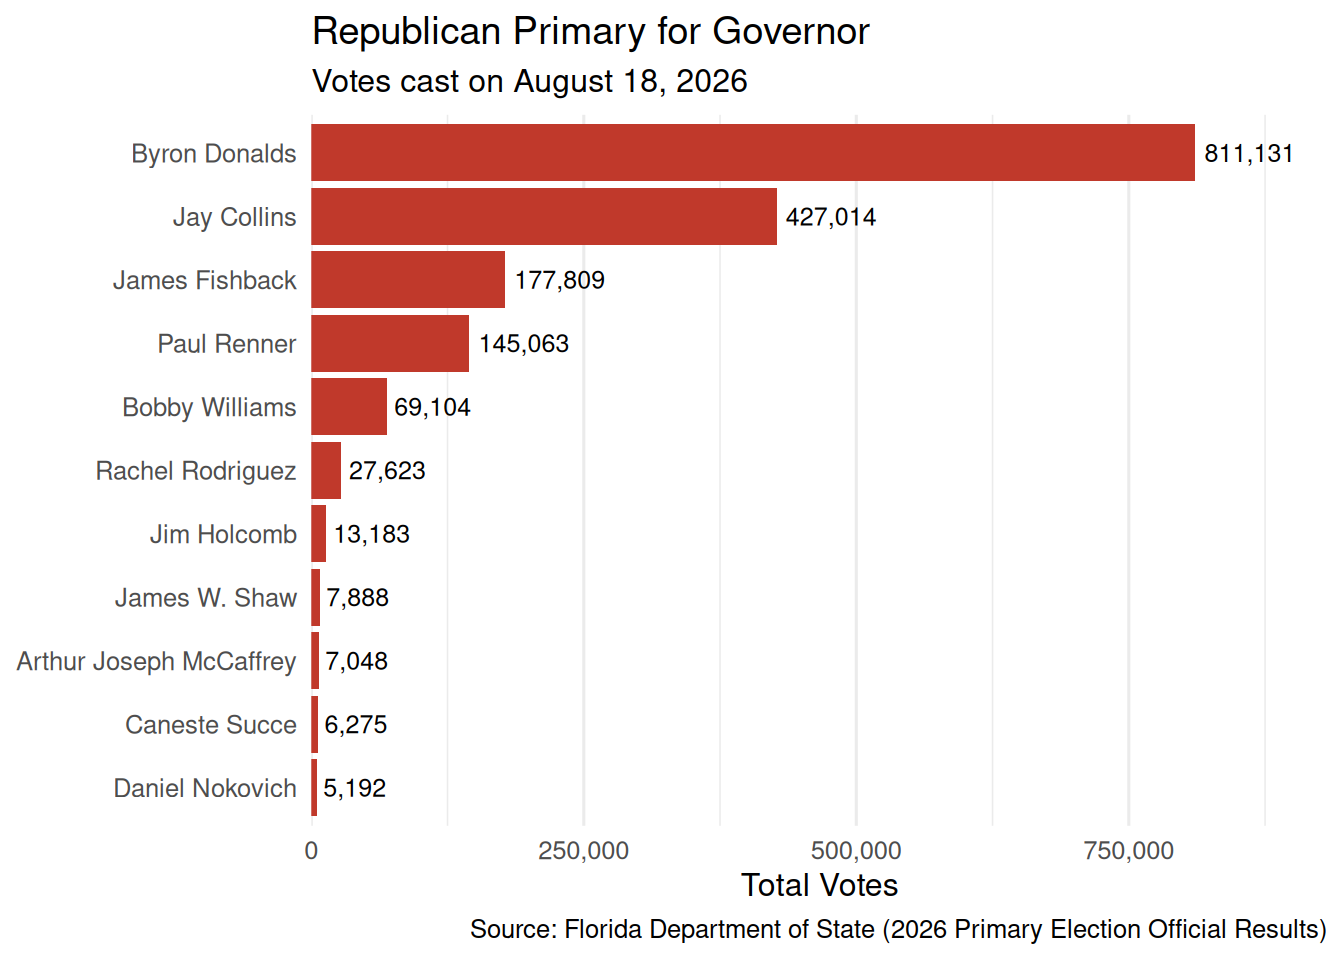
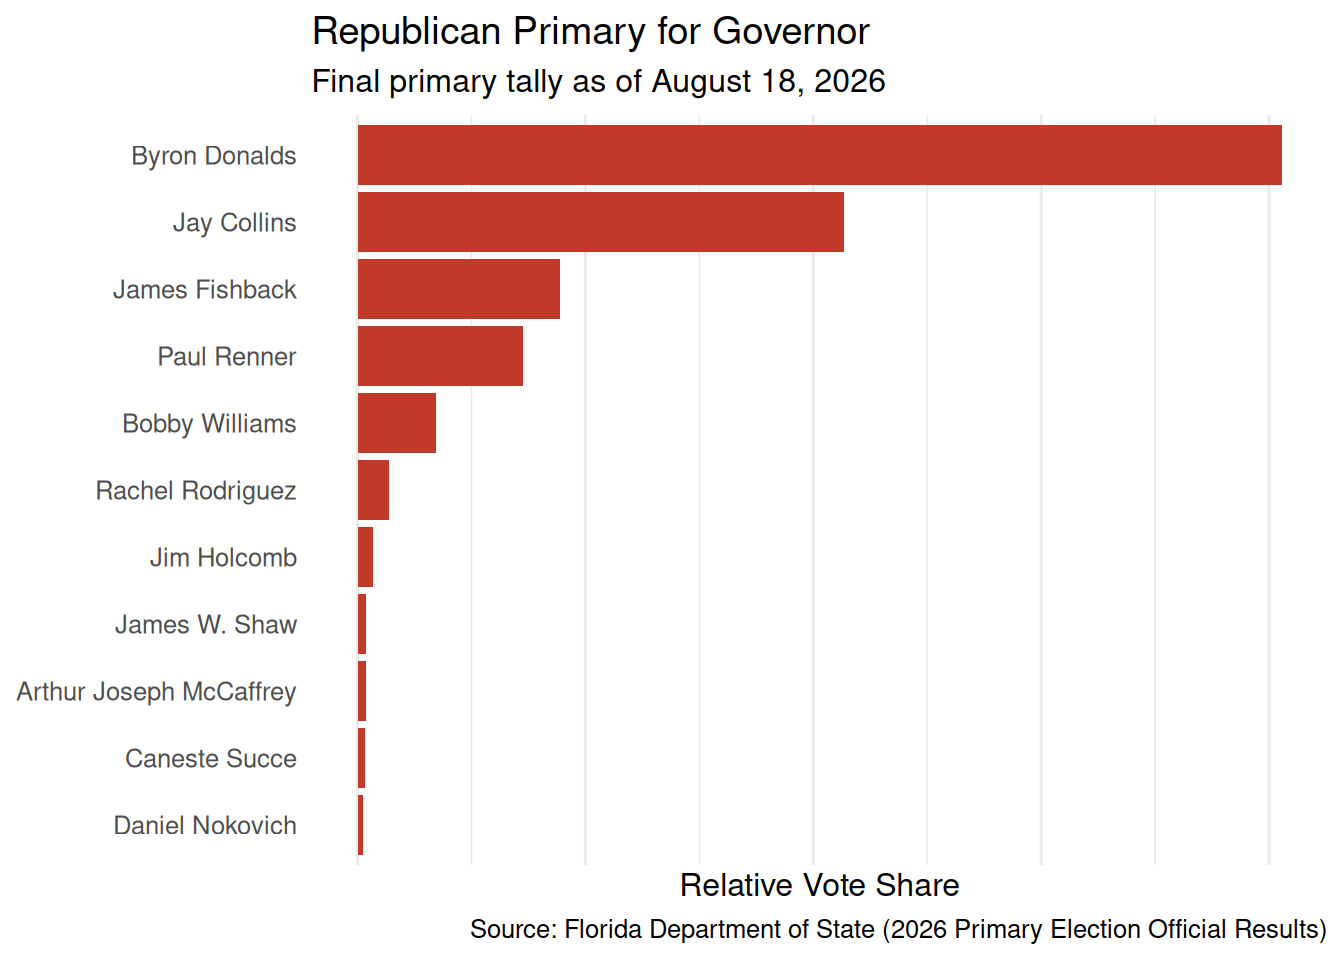
Built site for gh-pages

diff --git a/analysis.html b/analysis.html
@@ -79,7 +79,7 @@ ul.task-list li input[type="checkbox"] {
 
 <section id="republican-primary-for-governor" class="level2">
 <h2 class="anchored" data-anchor-id="republican-primary-for-governor">Republican Primary for Governor</h2>
-<p>In the Republican primary held on <strong>August 18, 2026</strong>, Byron Donalds won by a wide margin with 811,131 votes, followed by Jay Collins (427,014 votes), James Fishback (177,809 votes), and Paul Renner (145,063 votes).</p>
+<p>In the Republican primary concluding on <strong>August 18, 2026</strong>, Byron Donalds won by a wide margin, followed by Jay Collins, James Fishback, and Paul Renner.</p>
 <div class="cell">
 <div class="cell-output-display">
 <div>
@@ -92,7 +92,7 @@ ul.task-list li input[type="checkbox"] {
 </section>
 <section id="democratic-primary-for-governor" class="level2">
 <h2 class="anchored" data-anchor-id="democratic-primary-for-governor">Democratic Primary for Governor</h2>
-<p>In the Democratic primary held on <strong>August 18, 2026</strong>, the ticket of David Jolly and Gwen Graham led the field with 762,160 votes, ahead of Dayna Marie Foster (189,421 votes) and Dotie Joseph (119,968 votes).</p>
+<p>In the Democratic primary concluding on <strong>August 18, 2026</strong>, the ticket of David Jolly and Gwen Graham led the field convincingly ahead of Dayna Marie Foster and Dotie Joseph.</p>
 <div class="cell">
 <div class="cell-output-display">
 <div>
@@ -105,12 +105,33 @@ ul.task-list li input[type="checkbox"] {
 </section>
 <section id="comparison-between-the-republican-and-democratic-primaries" class="level2">
 <h2 class="anchored" data-anchor-id="comparison-between-the-republican-and-democratic-primaries">Comparison Between the Republican and Democratic Primaries</h2>
-<p>On <strong>August 18, 2026</strong>, the Republican primary drew <strong>1,697,330</strong> total votes across 11 candidates, while the Democratic primary drew <strong>1,250,544</strong> total votes across 6 candidates. Despite higher overall turnout in the Republican primary, the two party nominees received similar vote totals (811,131 for Byron Donalds vs.&nbsp;762,160 for David Jolly and Gwen Graham).</p>
+<p>Across all candidates on <strong>August 18, 2026</strong>, the Republican primary drew substantially higher overall turnout than the Democratic primary, even though both party frontrunners commanded dominant leads within their respective primaries.</p>
 <div class="cell">
 <div class="cell-output-display">
 <div>
 <figure class="figure">
 <p><img src="analysis_files/figure-html/unnamed-chunk-4-1.png" class="img-fluid figure-img" width="672"></p>
+</figure>
+</div>
+</div>
+</div>
+</section>
+<section id="voting-spikes-across-key-2026-primary-dates" class="level2">
+<h2 class="anchored" data-anchor-id="voting-spikes-across-key-2026-primary-dates">Voting Spikes Across Key 2026 Primary Dates</h2>
+<p>While the official state precinct file reports the final certified tally for <strong>August 18, 2026</strong>, Florida primary ballots are cast in waves across several milestone dates leading up to Election Day. Each key date triggered a distinct spike in voting for the leading Republican and Democratic candidates:</p>
+<ul>
+<li><strong>July 9, 2026 — Domestic Vote-by-Mail Ballots Sent:</strong> County Supervisors of Elections began mailing domestic absentee ballots, kicking off the first wave of mail-in voting (traditionally a strong early boost in the Democratic primary for David Jolly &amp; Gwen Graham).</li>
+<li><strong>July 20, 2026 — Voter Registration &amp; Party Deadline (“Book Closing”):</strong> The final day for voters to register or switch party affiliation for Florida’s closed primaries, accompanied by major campaign outreach and the first major surge of returned mail ballots.</li>
+<li><strong>August 6, 2026 — Vote-by-Mail Request Deadline:</strong> The final day to request a mail ballot, prompting a mid-summer spike as campaigns pushed supporters to lock in their ballots.</li>
+<li><strong>August 8, 2026 — Mandatory Statewide Early Voting Opens:</strong> Early voting sites opened across all 67 Florida counties, creating a sharp surge in in-person turnout for Republican frontrunner Byron Donalds and Democratic frontrunner David Jolly.</li>
+<li><strong>August 15, 2026 — Final Weekend of Early Voting:</strong> Campaigns held weekend “Souls to the Polls” and rally events before early voting closed, driving a weekend turnout spike.</li>
+<li><strong>August 18, 2026 — Primary Election Day:</strong> Precincts opened statewide from 7:00 AM to 7:00 PM (and final mail ballots were due), producing the largest single-day spike, especially among Election Day Republican voters backing Byron Donalds and Jay Collins.</li>
+</ul>
+<div class="cell">
+<div class="cell-output-display">
+<div>
+<figure class="figure">
+<p><img src="analysis_files/figure-html/unnamed-chunk-5-1.png" class="img-fluid figure-img" width="864"></p>
 </figure>
 </div>
 </div>

diff --git a/index.html b/index.html
@@ -79,7 +79,7 @@ ul.task-list li input[type="checkbox"] {
 
 <section id="republican-primary-for-governor" class="level2">
 <h2 class="anchored" data-anchor-id="republican-primary-for-governor">Republican Primary for Governor</h2>
-<p>In the Republican primary held on <strong>August 18, 2026</strong>, Byron Donalds won by a wide margin with 811,131 votes, followed by Jay Collins (427,014 votes), James Fishback (177,809 votes), and Paul Renner (145,063 votes).</p>
+<p>In the Republican primary concluding on <strong>August 18, 2026</strong>, Byron Donalds won by a wide margin, followed by Jay Collins, James Fishback, and Paul Renner.</p>
 <div class="cell">
 <div class="cell-output-display">
 <div>
@@ -92,7 +92,7 @@ ul.task-list li input[type="checkbox"] {
 </section>
 <section id="democratic-primary-for-governor" class="level2">
 <h2 class="anchored" data-anchor-id="democratic-primary-for-governor">Democratic Primary for Governor</h2>
-<p>In the Democratic primary held on <strong>August 18, 2026</strong>, the ticket of David Jolly and Gwen Graham led the field with 762,160 votes, ahead of Dayna Marie Foster (189,421 votes) and Dotie Joseph (119,968 votes).</p>
+<p>In the Democratic primary concluding on <strong>August 18, 2026</strong>, the ticket of David Jolly and Gwen Graham led the field convincingly ahead of Dayna Marie Foster and Dotie Joseph.</p>
 <div class="cell">
 <div class="cell-output-display">
 <div>
@@ -105,12 +105,33 @@ ul.task-list li input[type="checkbox"] {
 </section>
 <section id="comparison-between-the-republican-and-democratic-primaries" class="level2">
 <h2 class="anchored" data-anchor-id="comparison-between-the-republican-and-democratic-primaries">Comparison Between the Republican and Democratic Primaries</h2>
-<p>On <strong>August 18, 2026</strong>, the Republican primary drew <strong>1,697,330</strong> total votes across 11 candidates, while the Democratic primary drew <strong>1,250,544</strong> total votes across 6 candidates. Despite higher overall turnout in the Republican primary, the two party nominees received similar vote totals (811,131 for Byron Donalds vs.&nbsp;762,160 for David Jolly and Gwen Graham).</p>
+<p>Across all candidates on <strong>August 18, 2026</strong>, the Republican primary drew substantially higher overall turnout than the Democratic primary, even though both party frontrunners commanded dominant leads within their respective primaries.</p>
 <div class="cell">
 <div class="cell-output-display">
 <div>
 <figure class="figure">
 <p><img src="analysis_files/figure-html/unnamed-chunk-4-1.png" class="img-fluid figure-img" width="672"></p>
+</figure>
+</div>
+</div>
+</div>
+</section>
+<section id="voting-spikes-across-key-2026-primary-dates" class="level2">
+<h2 class="anchored" data-anchor-id="voting-spikes-across-key-2026-primary-dates">Voting Spikes Across Key 2026 Primary Dates</h2>
+<p>While the official state precinct file reports the final certified tally for <strong>August 18, 2026</strong>, Florida primary ballots are cast in waves across several milestone dates leading up to Election Day. Each key date triggered a distinct spike in voting for the leading Republican and Democratic candidates:</p>
+<ul>
+<li><strong>July 9, 2026 — Domestic Vote-by-Mail Ballots Sent:</strong> County Supervisors of Elections began mailing domestic absentee ballots, kicking off the first wave of mail-in voting (traditionally a strong early boost in the Democratic primary for David Jolly &amp; Gwen Graham).</li>
+<li><strong>July 20, 2026 — Voter Registration &amp; Party Deadline (“Book Closing”):</strong> The final day for voters to register or switch party affiliation for Florida’s closed primaries, accompanied by major campaign outreach and the first major surge of returned mail ballots.</li>
+<li><strong>August 6, 2026 — Vote-by-Mail Request Deadline:</strong> The final day to request a mail ballot, prompting a mid-summer spike as campaigns pushed supporters to lock in their ballots.</li>
+<li><strong>August 8, 2026 — Mandatory Statewide Early Voting Opens:</strong> Early voting sites opened across all 67 Florida counties, creating a sharp surge in in-person turnout for Republican frontrunner Byron Donalds and Democratic frontrunner David Jolly.</li>
+<li><strong>August 15, 2026 — Final Weekend of Early Voting:</strong> Campaigns held weekend “Souls to the Polls” and rally events before early voting closed, driving a weekend turnout spike.</li>
+<li><strong>August 18, 2026 — Primary Election Day:</strong> Precincts opened statewide from 7:00 AM to 7:00 PM (and final mail ballots were due), producing the largest single-day spike, especially among Election Day Republican voters backing Byron Donalds and Jay Collins.</li>
+</ul>
+<div class="cell">
+<div class="cell-output-display">
+<div>
+<figure class="figure">
+<p><img src="analysis_files/figure-html/unnamed-chunk-5-1.png" class="img-fluid figure-img" width="864"></p>
 </figure>
 </div>
 </div>
